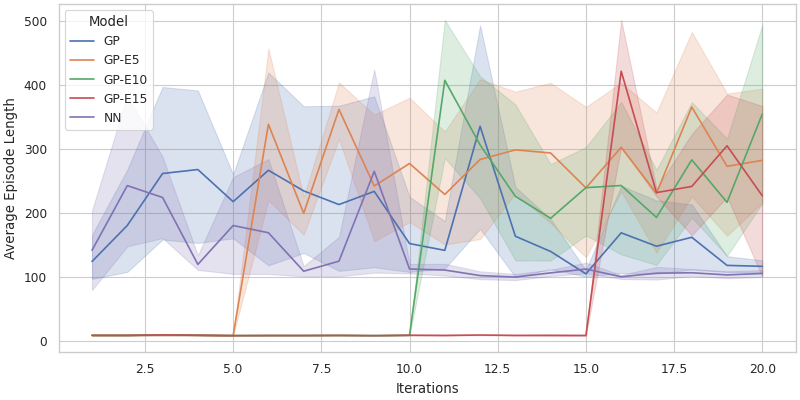
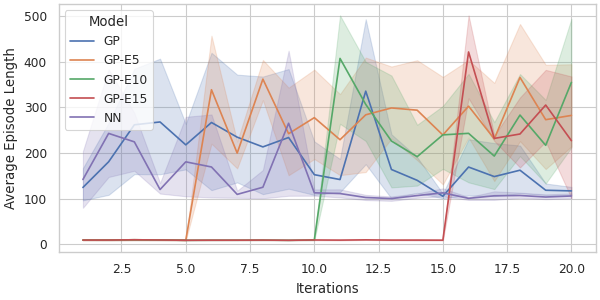
Finalized results

Changed region(s): [[0.0, 0.0, 1.0, 0.99]]

diff --git a/plot.py b/plot.py
@@ -11,7 +11,7 @@ def plot_cartpole_performance():
     sns.set_theme("paper", "whitegrid")
 
     data = pd.DataFrame()
-    for p in DATA.glob("*"):
+    for p in Path("data_final_invpend").glob("*"):
         if "_inverted-pendulum" in str(p):
             new = pd.read_csv(p / "data.csv")
 
@@ -33,7 +33,7 @@ def plot_cartpole_performance():
         inplace=True,
     )
 
-    fig = plt.figure(figsize=(8, 4), layout="constrained")
+    fig = plt.figure(figsize=(6, 3), layout="constrained")
     sns.lineplot(
         data=data,
         x="Iterations",
@@ -49,7 +49,7 @@ def plot_cartpole_heatmap():
     sns.set_theme("paper", "whitegrid")
 
     data = {}
-    for p in DATA.glob("*"):
+    for p in Path("data_final_invpend").glob("*"):
         if "_inverted-pendulum" in str(p):
             new = np.load(p / "obs.npy")
 
@@ -86,6 +86,87 @@ def plot_cartpole_heatmap():
     plt.savefig("results/cartpole_heatmap.png")
 
 
+def plot_double_cartpole_performance():
+    sns.set_theme("paper", "whitegrid")
+
+    data = pd.DataFrame()
+    for p in Path("data_final_dinvpend").glob("*"):
+        if "inverted-pendulum" in str(p):
+            new = pd.read_csv(p / "data.csv")
+
+            if "gp" in str(p):
+                explore = int(str(p).split("explore")[1].split("_")[0]) + 1
+                if explore == 0:
+                    new["Model"] = "GP"
+                else:
+                    new["Model"] = f"GP-E{explore}"
+
+            else:
+                new["Model"] = "NN"
+
+            data = pd.concat([data, new])
+
+    data["itr"] += 1
+    data.rename(
+        columns={"Eval_AverageEpLen": "Average Episode Length", "itr": "Iterations"},
+        inplace=True,
+    )
+
+    fig = plt.figure(figsize=(6, 3), layout="constrained")
+    sns.lineplot(
+        data=data,
+        x="Iterations",
+        y="Average Episode Length",
+        hue="Model",
+        hue_order=["GP", "GP-E5", "GP-E10", "GP-E15", "NN"],
+        err_kws={"alpha": 0.2},
+    )
+    plt.savefig("results/double_cartpole_eval.png")
+
+
+def plot_double_cartpole_heatmap():
+    sns.set_theme("paper", "whitegrid")
+
+    data = {}
+    for p in Path("data_final_dinvpend").glob("*"):
+        if "inverted-pendulum" in str(p):
+            new = np.load(p / "obs.npy")
+
+            if "gp" in str(p):
+                explore = int(str(p).split("explore")[1].split("_")[0]) + 1
+                if explore == 0:
+                    name = "GP"
+                else:
+                    name = f"GP-E{explore}"
+
+            else:
+                name = "NN"
+
+            if name not in data:
+                data[name] = new
+
+    fig, axs = plt.subplots(1, 5, figsize=(8, 3), layout="constrained", sharey=True)
+
+    for i, name in enumerate(["GP", "GP-E5", "GP-E10", "GP-E15", "NN"]):
+        d = data[name]
+        d *= 180 / np.pi
+        df = pd.DataFrame(d[:, 1:3], columns=["Theta1", "Theta2"])
+        sns.histplot(
+            df,
+            x="Theta1",
+            y="Theta2",
+            ax=axs[i],
+            cbar=False,
+            stat="probability",
+            bins=[75, 75],
+        )
+        axs[i].set_title(name)
+
+    plt.savefig("results/double_cartpole_heatmap.png")
+
+
 if __name__ == "__main__":
-    plot_cartpole_performance()
-    plot_cartpole_heatmap()
+    # plot_cartpole_performance()
+    # plot_cartpole_heatmap()
+    plot_double_cartpole_performance()
+    plot_double_cartpole_heatmap()

diff --git a/gp4expl/scripts/plot_reacher.py b/gp4expl/scripts/plot_reacher.py
@@ -20,17 +20,17 @@ def get_section_results(file):
 
 
 if __name__ == "__main__":
-    sns.set_theme("talk", "whitegrid")
+    sns.set_theme("paper", "whitegrid")
     c = sns.color_palette()
     cred = sns.color_palette("rocket")
-    fig = plt.figure(figsize=(8, 6), layout="constrained")
+    fig = plt.figure(figsize=(6, 3), layout="constrained")
 
     logdirs = [
-        "data/reacher_random_nn_reacher_05-12-2023_20-06-42/events*",
-        "data/reacher_random_gp_reacher_05-12-2023_22-01-21/events*",
-        "data/reacher_random_explore_1_reacher_05-12-2023_23-31-03/events*",
-        "data/reacher_random_explore_3_reacher_06-12-2023_01-13-35/events*",
-        "data/reacher_random_explore_5_reacher_06-12-2023_03-04-38/events*",
+        "data_final_reacher/reacher_random_nn_reacher_05-12-2023_20-06-42/events*",
+        "data_final_reacher/reacher_random_gp_reacher_05-12-2023_22-01-21/events*",
+        "data_final_reacher/reacher_random_explore_1_reacher_05-12-2023_23-31-03/events*",
+        "data_final_reacher/reacher_random_explore_3_reacher_06-12-2023_01-13-35/events*",
+        "data_final_reacher/reacher_random_explore_5_reacher_06-12-2023_03-04-38/events*",
     ]
     names = ["NN", "GP", "GP + Explore 1", "GP + Explore 3", "GP + Explore 5"]
     colors = [c[0], cred[3], cred[2], cred[1], cred[0]]
@@ -44,6 +44,6 @@ if __name__ == "__main__":
     plt.xlabel("Iteration")
     plt.ylabel("Average Return")
     plt.legend()
-    plt.title("Sawyer Reacher")
-    plt.savefig("reacher.png", dpi=300)
-    plt.show()
+    plt.title("7DoF Reacher")
+    plt.savefig("results/reacher_eval.png", dpi=300)
+    # plt.show()
